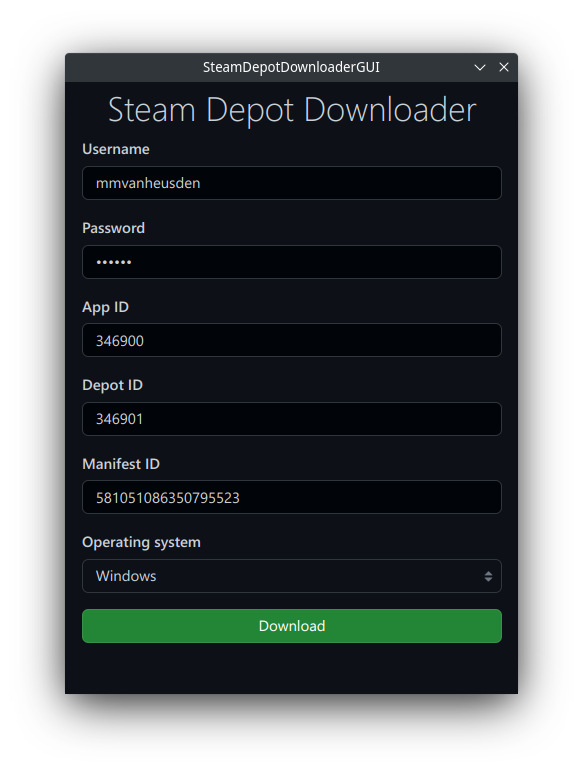
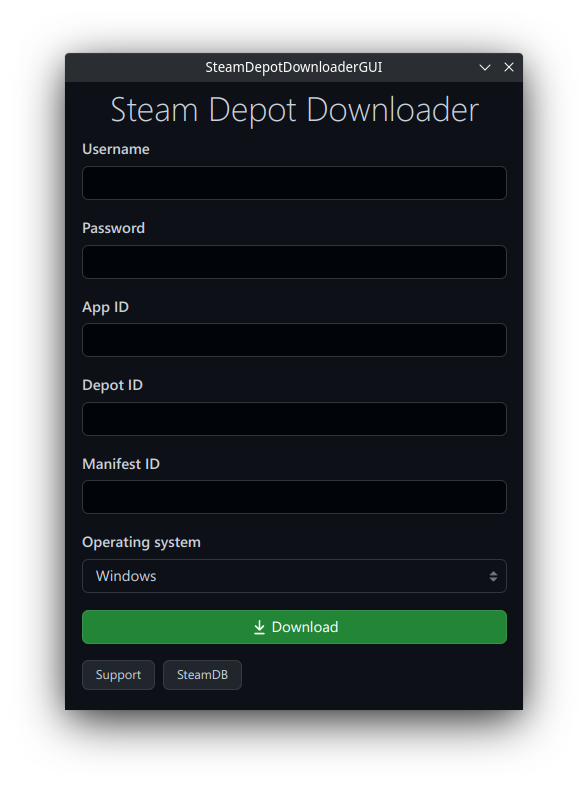
Add useful buttons

diff --git a/downloader.js b/downloader.js
@@ -55,9 +55,21 @@ function submitDotnet() {
 	}
 }
 
+function openGitHubIssues() {
+	const electron = require("electron")
+	console.debug("Opened GitHub issues page")
+	void electron.shell.openExternal("https://github.com/mmvanheusden/SteamDepotDownloaderGUI/issues/new")
+}
+
+function openSteamDB() {
+	const electron = require("electron")
+	console.debug("Opened SteamDB instant search page")
+	void electron.shell.openExternal("https://steamdb.info/instantsearch/")
+}
 
 window.addEventListener("DOMContentLoaded", () => {
 	document.getElementById("alertbtn").addEventListener("click", submitDotnet)
 	document.getElementById("downloadbtn").addEventListener("click", submitForm)
+	document.getElementById("smbtn1").addEventListener("click", openGitHubIssues)
+	document.getElementById("smbtn2").addEventListener("click", openSteamDB)
 })
-

diff --git a/index.html b/index.html
@@ -94,9 +94,17 @@
 			</div>
 		</div>
 	</form>
-	<div class="form-group mx-3">
-		<button class="btn btn-block btn-primary" id="downloadbtn">Download</button>
+	<div class="form-group mt-3 ml-3 mr-3">
+		<button class="btn btn-block btn-primary" id="downloadbtn">
+			<svg class="octicon" height="16" viewBox="0 0 16 16" width="16" xmlns="http://www.w3.org/2000/svg">
+				<path d="M7.47 10.78a.75.75 0 001.06 0l3.75-3.75a.75.75 0 00-1.06-1.06L8.75 8.44V1.75a.75.75 0 00-1.5 0v6.69L4.78 5.97a.75.75 0 00-1.06 1.06l3.75 3.75zM3.75 13a.75.75 0 000 1.5h8.5a.75.75 0 000-1.5h-8.5z"
+					  fill-rule="evenodd"></path>
+			</svg>
+			Download
+		</button>
 	</div>
+	<div class="btn btn-sm ml-3" id="smbtn1">Support</div>
+	<div class="btn btn-sm ml-1" id="smbtn2">SteamDB</div>
 </div>
 </body>
 </html>

diff --git a/main.js b/main.js
@@ -5,8 +5,8 @@ const createWindow = () => {
 	const mainWindow = new BrowserWindow({
 		autoHideMenuBar: true,
 		resizable: false,
-		width: 425,
-		height: 575,
+		width: 430,
+		height: 590,
 		maximizable: false,
 		webPreferences: {
 			nodeIntegration: true,
